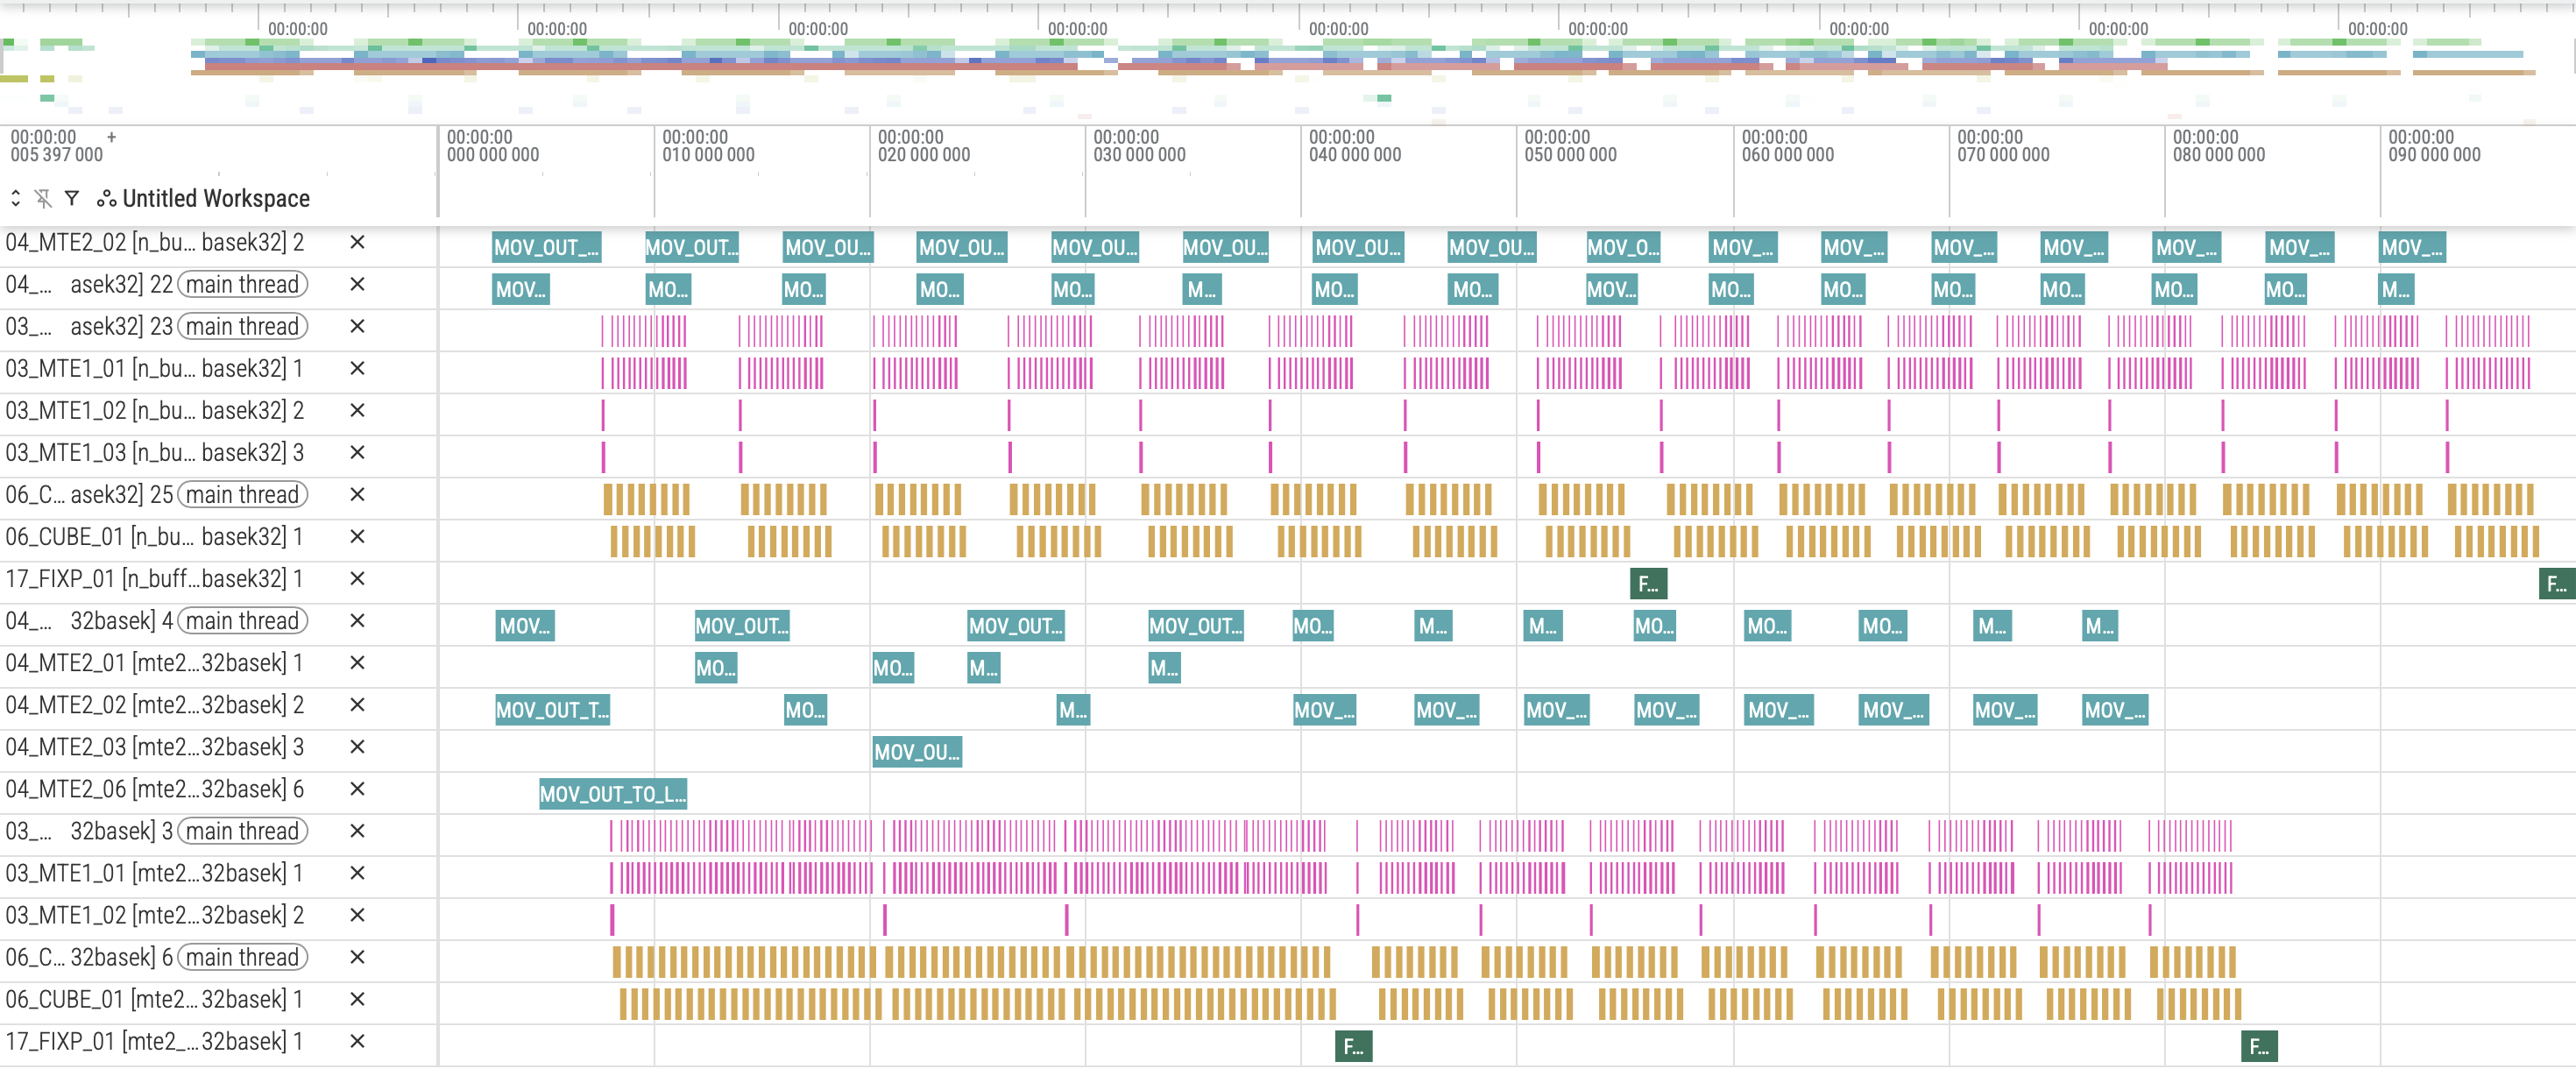
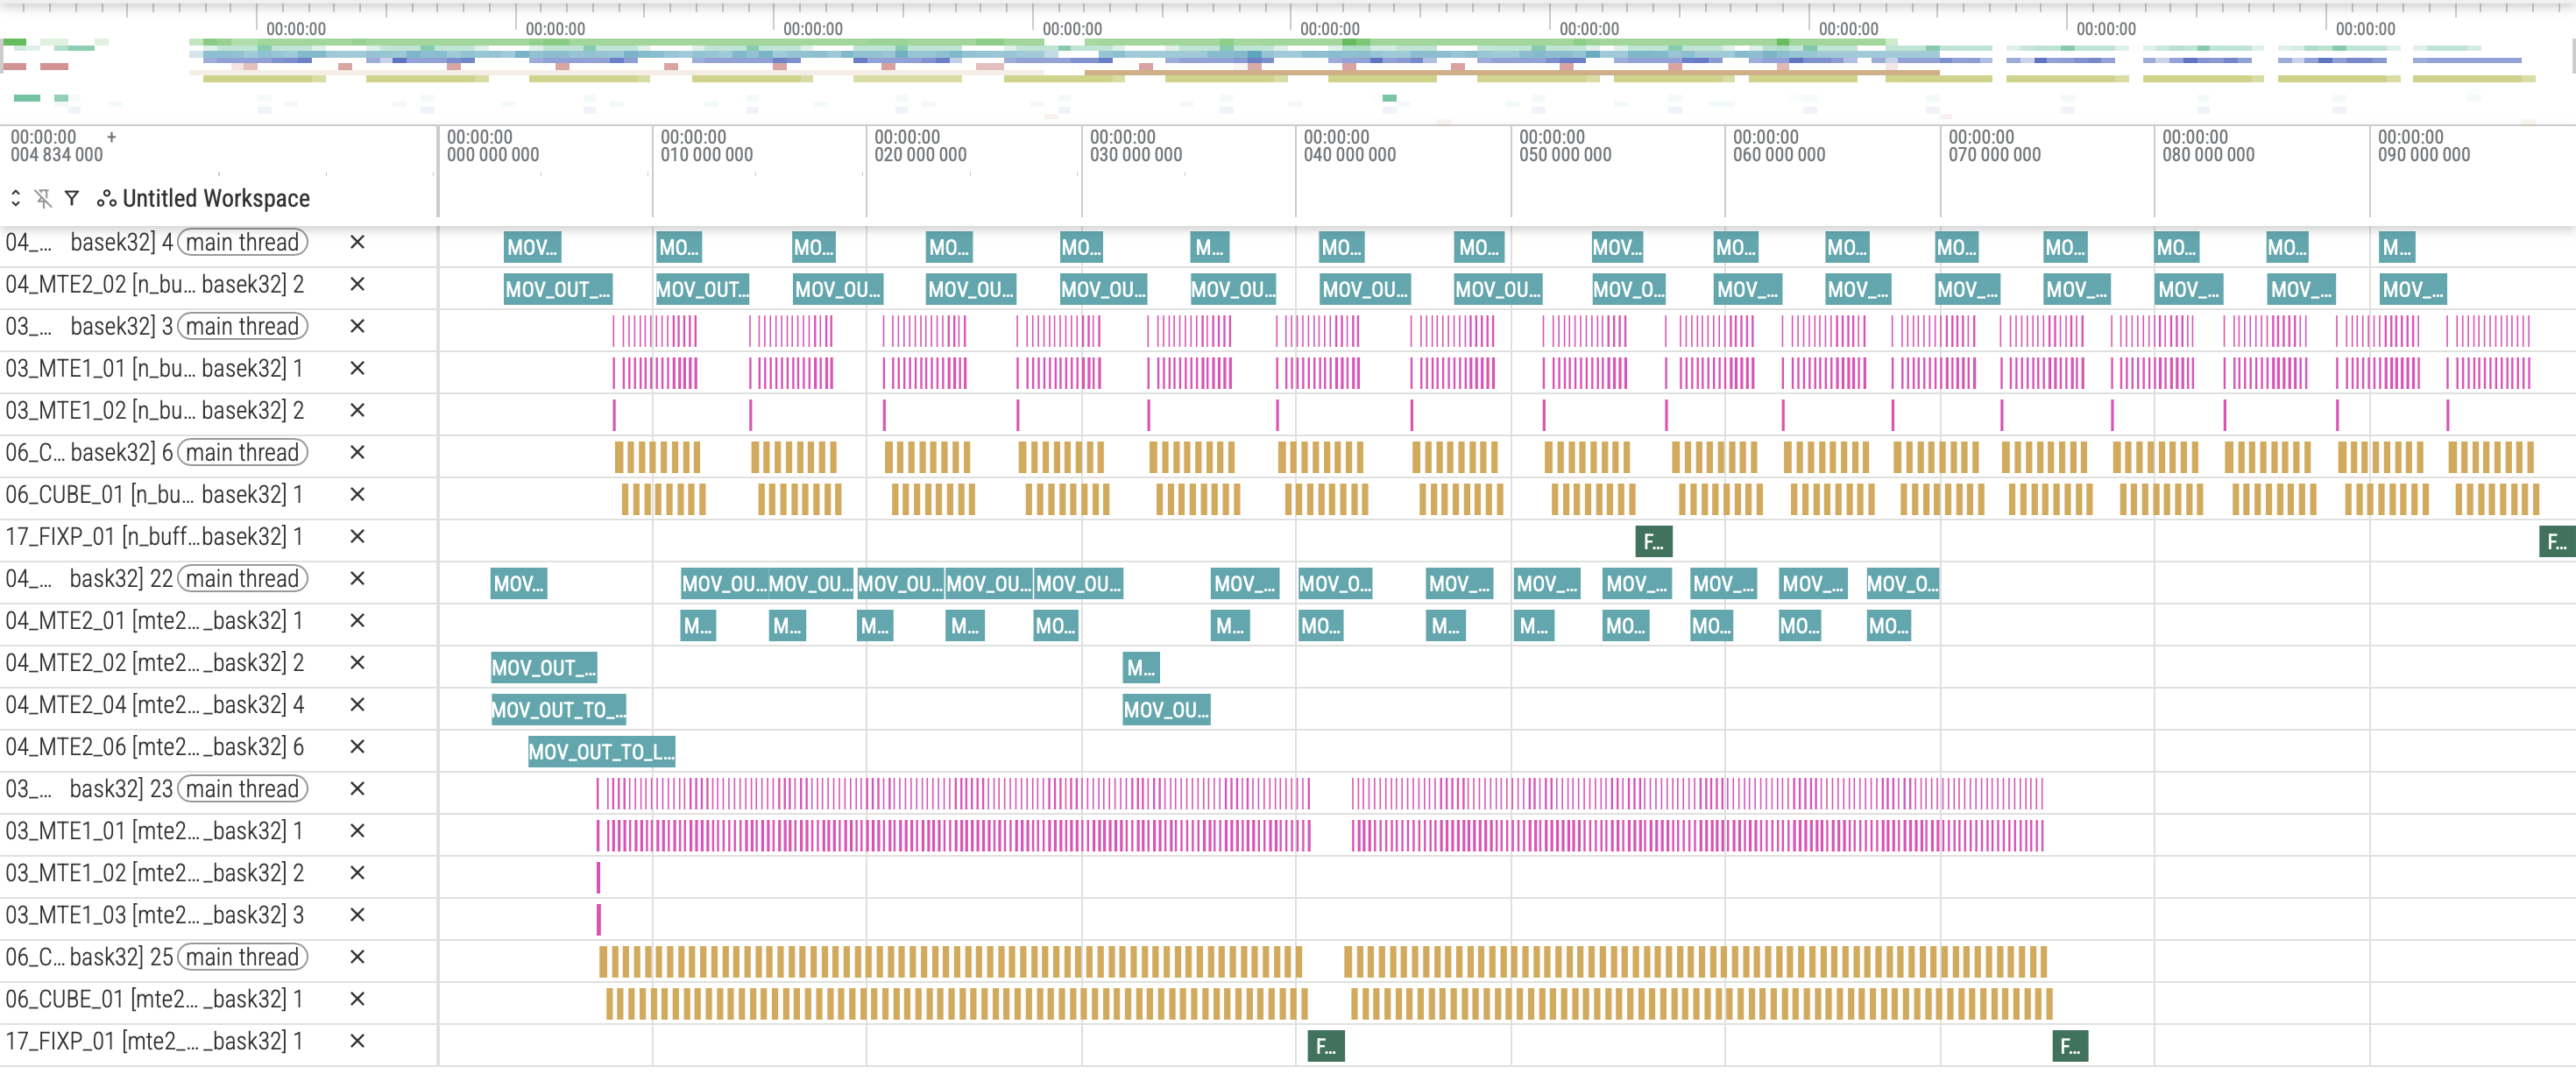
fix_mte2_preload
# message auto-generated for no-merge-commit merge:
!227 merge fix_mte2_preload into master

fix_mte2_preload

Created-by: huangkejie1647
Commit-by: huangkejie1647
Merged-by: cann-robot
Description: ## 描述
<!--在这里详细描述你的改动，包括改动的原因和所采取的方法。-->
修复轮次间的衔接问题：原 MTE2 预加载未处理每轮计算结束后的空闲搬运操作，导致后续轮次无法正常跟进。
本次修改调整为，在每轮计算结束后，提前将下一轮计算所需的 buffer 数据搬运就位，从而实现 MTE2 搬运的无缝衔接，保证后续轮次计算连续进行。
## 关联的Issue
<!-- 如果这个PR是为了解决特定的Issue，请在这里提供Issue链接。-->
Issue [#155](https://gitcode.com/cann/cann-samples/issues/155) 
<!-- 如果这个PR是为了解决特定的问题单，请在这里描述问题单单号。-->

## 测试
<!--描述进行了哪些测试来验证你的改动。包括但不限于二级冒烟、算子泛化等。-->
本地脚本泛化验证pass
流水图正常
## 文档更新
<!--如果这个PR包含文档的更新，请在这里指出。例如：更新了README.md文件。-->
Samples/1_Features/instruction_optimization/mte2_preload/README.md
## 类型标签
<!--  [x] 表示选中 -->
- [x] Bug修复
- [ ] 新特性
- [ ] 性能优化
- [ ] 文档更新
- [ ] 其他，请描述：

See merge request: cann/cann-samples!227

diff --git a/Samples/1_Features/instruction_optimization/mte2_preload/README.md b/Samples/1_Features/instruction_optimization/mte2_preload/README.md
@@ -58,45 +58,96 @@ if (tileIdx / blockNum == 0 && iter0 == 0) {
 接下来，在非首轮迭代或首轮迭代的后续分片时，利用双缓冲机制预取下一分片数据到另一块 L1 缓冲区，实现数据加载与计算的重叠:
 
 ```C++
-// 第二段：预取下一个分片（用于双缓冲）
-if (tileIdx / blockNum > 0 || (tileIdx / blockNum == 0 && kL1TileNum > 1 && iter0 + 1 < kL1TileNum)) {
-    // 对于第一个 block 内的后续迭代，更新偏移量和缓冲区 ID
-    if(tileIdx / blockNum == 0) {
-        curOffsetL1 = (iter0 + 1) * kL1;
-        curGmAKL1 = NextCurGmAKL1;
-        curGmBKL1 = NextCurGmBKL1;
-        curL1BufId = 1 - l1BufId;   // 在两个 L1 缓冲区之间切换
-    }
+// 第二块：双缓冲预取下一个tile
+if (iter0 + 1 < kL1TileNum) {     
+    // 等待目标缓冲区空闲
+    AscendC::WaitFlag<AscendC::HardEvent::MTE1_MTE2>(1 - l1BufId);
     
-    // 等待目标缓冲区上之前的 MTE1_MTE2 操作完成
-    AscendC::WaitFlag<AscendC::HardEvent::MTE1_MTE2>(curL1BufId);
+    // 重新计算下一块的数据布局
+    layoutAL1 = AscendC::Te::MakeLayoutAL1<T>{}(curM, NextCurGmAKL1);
+    layoutBL1 = AscendC::Te::MakeLayoutBL1<T>{}(NextCurGmBKL1, curN);
     
-    // 重新计算下一个分片的布局
-    layoutAL1 = AscendC::Te::MakeLayoutAL1<T>{}(curM, curGmAKL1);
-    layoutBL1 = AscendC::Te::MakeLayoutBL1<T>{}(curGmBKL1, curN);
-    
-    // 将下一个 A 分片从全局内存拷贝到 L1 缓冲区（辅助缓冲区）
+    // 预取A矩阵的下一块到备用L1缓冲区
     auto tensorAL1Sec =
-        AscendC::Te::MakeTensor(AscendC::Te::MakeL1memPtr<T>(l1BufferAOffset[curL1BufId]), layoutAL1);
-    auto tensorAGmTileSec = tensorAGmBlock(
-        AscendC::Te::MakeCoord(0, curOffsetL1), AscendC::Te::MakeShape(curM, curGmAKL1));
+        AscendC::Te::MakeTensor(AscendC::Te::MakeMemPtr<AscendC::Te::Location::L1, T>(l1BufferAOffset[1 - l1BufId]), layoutAL1);
+    auto tensorAGmTileSec = tensorAGmBlock.Slice(
+        AscendC::Te::MakeCoord(0, (iter0 + 1) * kL1), AscendC::Te::MakeShape(curM, NextCurGmAKL1));
     AscendC::Te::Copy(copyGM2L1, tensorAL1Sec, tensorAGmTileSec);
 
-    // 将下一个 B 分片从全局内存拷贝到 L1 缓冲区（辅助缓冲区）
+    // 预取B矩阵的下一块到备用L1缓冲区
     auto tensorBL1Sec =
-        AscendC::Te::MakeTensor(AscendC::Te::MakeL1memPtr<T>(l1BufferBOffset[curL1BufId]), layoutBL1);
-    auto tensorBGmTileSec = tensorBGmBlock(
-        AscendC::Te::MakeCoord(curOffsetL1, 0), AscendC::Te::MakeShape(curGmBKL1, curN));
+        AscendC::Te::MakeTensor(AscendC::Te::MakeMemPtr<AscendC::Te::Location::L1, T>(l1BufferBOffset[1 - l1BufId]), layoutBL1);
+    auto tensorBGmTileSec = tensorBGmBlock.Slice(
+        AscendC::Te::MakeCoord((iter0 + 1) * kL1, 0), AscendC::Te::MakeShape(NextCurGmBKL1, curN));
     AscendC::Te::Copy(copyGM2L1, tensorBL1Sec, tensorBGmTileSec);
-    
-    // 拷贝完成后设置标志位
-    AscendC::SetFlag<AscendC::HardEvent::MTE2_MTE1>(curL1BufId);
+
+    // 标记数据已准备好
+    AscendC::SetFlag<AscendC::HardEvent::MTE2_MTE1>(1 - l1BufId);
 }
 ```
+
+最后处理轮次边界：当完成当前K维度的最后一个分片时，提前预取下一轮区域的第一个K分片，实现跨轮次的双缓冲无缝衔接。
+```C++
+// 第三块：完成当前轮次最后一个tile时，预取下一轮的第一个tile（实现轮间无缝衔接）
+// 触发条件：
+//   1. iter0 + 1 == kL1TileNum：当前K维度的tile是最后一轮（没有下一个tile了）
+//   2. tileIdx + blockNum < tileNum：还有未处理的tile块（不是全局最后一个块）
+if (iter0 + 1 == kL1TileNum && tileIdx + blockNum < tileNum) {
+    // 等待备用缓冲区上的异步操作完成，确保可以安全写入下一轮的数据
+    AscendC::WaitFlag<AscendC::HardEvent::MTE1_MTE2>(1 - l1BufId);
+    
+    // 计算下一轮要处理的tile索引（将一维索引转换为二维(M,N)坐标）
+    // blockNum：每个tile包含的K维子块数量，用于跨轮次索引跳转
+    uint64_t nextMTileIdx = (tileIdx + blockNum) / nTileNum;
+    uint64_t nextNTileIdx = (tileIdx + blockNum) % nTileNum;
+
+    // 处理M/N维度的边界情况：最后一行的tile可能高度或宽度不完整（tail）
+    int64_t nextRoundM = nextMTileIdx == (mTileNum - 1) ? tailBaseM : baseM;
+    int64_t nextRoundN = nextNTileIdx == (nTileNum - 1) ? tailBaseN : baseN;
+
+    // 处理K维度的边界：当前轮次的K维度tile数量不一时，下一轮的第一个K分片大小需要重新计算
+    // 注意：这里kL1TileNum表示当前轮次有多少个K分片，当只有一个分片时直接取剩余长度
+    int64_t nextRoundAKL1 = kL1TileNum == 1 ? (k - (kL1TileNum - 1) * kL1) : kL1;
+    int64_t nextRoundBKL1 = nextRoundAKL1;  // A和B在K维度大小必须一致
+
+    // 根据新的tile尺寸重新计算L1缓冲区布局（适应可能的边界形状变化）
+    layoutAL1 = AscendC::Te::MakeLayoutAL1<T>{}(nextRoundM, nextRoundAKL1);
+    layoutBL1 = AscendC::Te::MakeLayoutBL1<T>{}(nextRoundBKL1, nextRoundN);
+
+    // 从全局张量中切出下一轮要处理的完整块（包含所有K维度数据）
+    auto nextTensorAGmBlock = tensorAgm.Slice(
+        AscendC::Te::MakeCoord(nextMTileIdx * baseM, 0L), 
+        AscendC::Te::MakeShape(nextRoundM, k));
+    auto nextTensorBGmBlock = tensorBgm.Slice(
+        AscendC::Te::MakeCoord(0L, nextNTileIdx * baseN), 
+        AscendC::Te::MakeShape(k, nextRoundN));
+
+    // 预取下一轮的A矩阵第一个K分片（从新GM块中取起始位置）
+    auto tensorAL1Sec =
+        AscendC::Te::MakeTensor(AscendC::Te::MakeMemPtr<AscendC::Te::Location::L1, T>(l1BufferAOffset[1 - l1BufId]), layoutAL1);
+    auto tensorAGmTileSec = nextTensorAGmBlock.Slice(
+        AscendC::Te::MakeCoord(0, 0),  // 从新块的开头开始取
+        AscendC::Te::MakeShape(nextRoundM, nextRoundAKL1));
+    AscendC::Te::Copy(copyGM2L1, tensorAL1Sec, tensorAGmTileSec);
+
+    // 预取下一轮的B矩阵第一个K分片
+    auto tensorBL1Sec =
+        AscendC::Te::MakeTensor(AscendC::Te::MakeMemPtr<AscendC::Te::Location::L1, T>(l1BufferBOffset[1 - l1BufId]), layoutBL1);
+    auto tensorBGmTileSec = nextTensorBGmBlock.Slice(
+        AscendC::Te::MakeCoord(0, 0),  // 从新块的开头开始取
+        AscendC::Te::MakeShape(nextRoundBKL1, nextRoundN));
+    AscendC::Te::Copy(copyGM2L1, tensorBL1Sec, tensorBGmTileSec);
+
+    // 标记数据准备就绪，下一轮计算开始时可以直接使用
+    AscendC::SetFlag<AscendC::HardEvent::MTE2_MTE1>(1 - l1BufId);
+}
+```
+
 **关键改动点**：
 
 * **初始预加载双份数据**: 在首轮（iter0 == 0）时，一次性搬运两份 A 矩阵数据到 L1 缓存，使得 MTE2_PONG 提前发射。
 * **缓冲区切换**：在首轮块内，每次预取前更新curL1BufId = 1 - l1BufId，切换到另一块缓冲区；同时更新全局内存偏移量（curOffsetL1）和分片尺寸（curGmAKL1, curGmBKL1）。
+* **轮次边界处理**：当完成当前区域的最后一个 K 分片（iter0 + 1 == kL1TileNum）且还有下一个区域待处理时，提前预取下一轮区域的第一个 K 分片到备用缓冲区，实现轮间无缝切换，避免计算单元空闲。
 
 ### 2.2 修改注意点
 
@@ -107,6 +158,7 @@ if (tileIdx / blockNum > 0 || (tileIdx / blockNum == 0 && kL1TileNum > 1 && iter
 
 ## 3. 性能结果对比
 ### 3.1 case前后性能
+&ensp;&ensp;以基础 MatMul 算子开启 DB 为例，在相同输入规模（M=1024, K=2048, N=4096）下，将 basek 设为 32 以增加指令深度并进行性能测试，通过 Profiling 工具采集硬件流水线的执行状态。
 
 <div align="center">
   <img src="./images/image-3.png" alt="计算流水图1" style="width: 80%; height: auto;">
@@ -169,7 +221,7 @@ python3 profile_matmul.py 1024 2048 4096
 +--------------+------------+---------+------------+----------+----------+-------------+----------------+
 | candidate    | kernel(us) | mac(us) | scalar(us) | mte1(us) | mte2(us) | fixpipe(us) | icache_miss(%) |
 +==============+============+=========+============+==========+==========+=============+================+
-| mte2_preload |     63.288 |  41.880 |      5.924 |   14.299 |   32.722 |       2.543 |          0.500 |
+| mte2_preload |     53.328 |  40.791 |      3.166 |   13.191 |   38.916 |       2.110 |          0.300 |
 +--------------+------------+---------+------------+----------+----------+-------------+----------------+
 ```
 与相同规模下的基础 MatMul 算子开启 double-buffer对比：